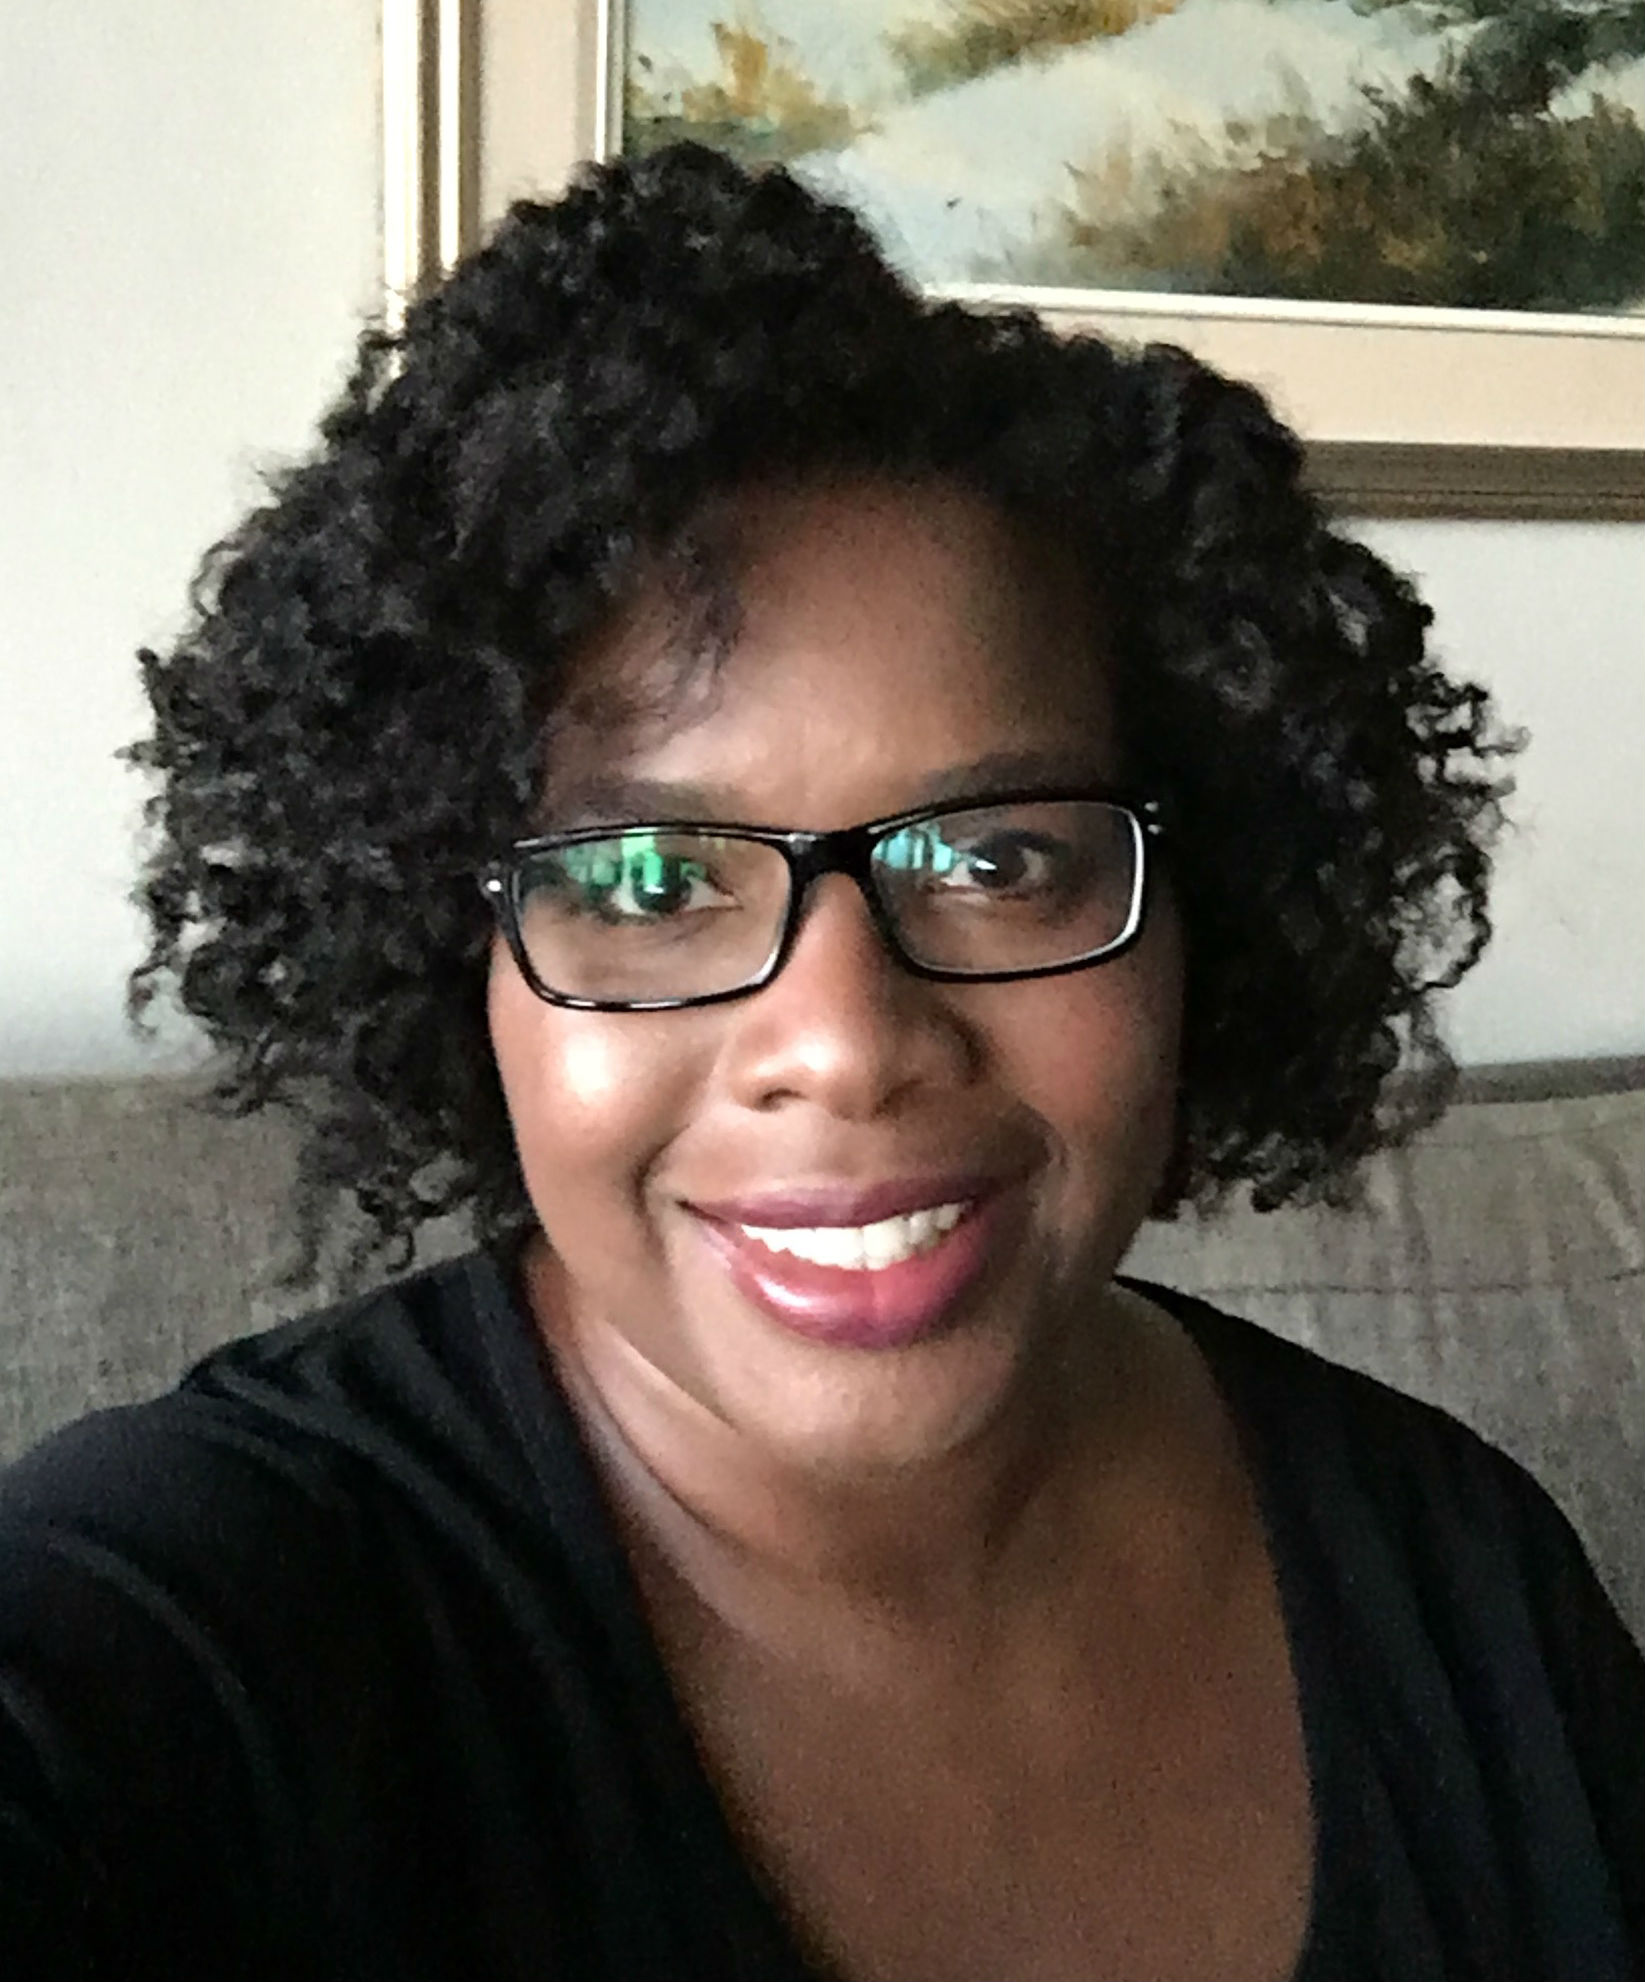
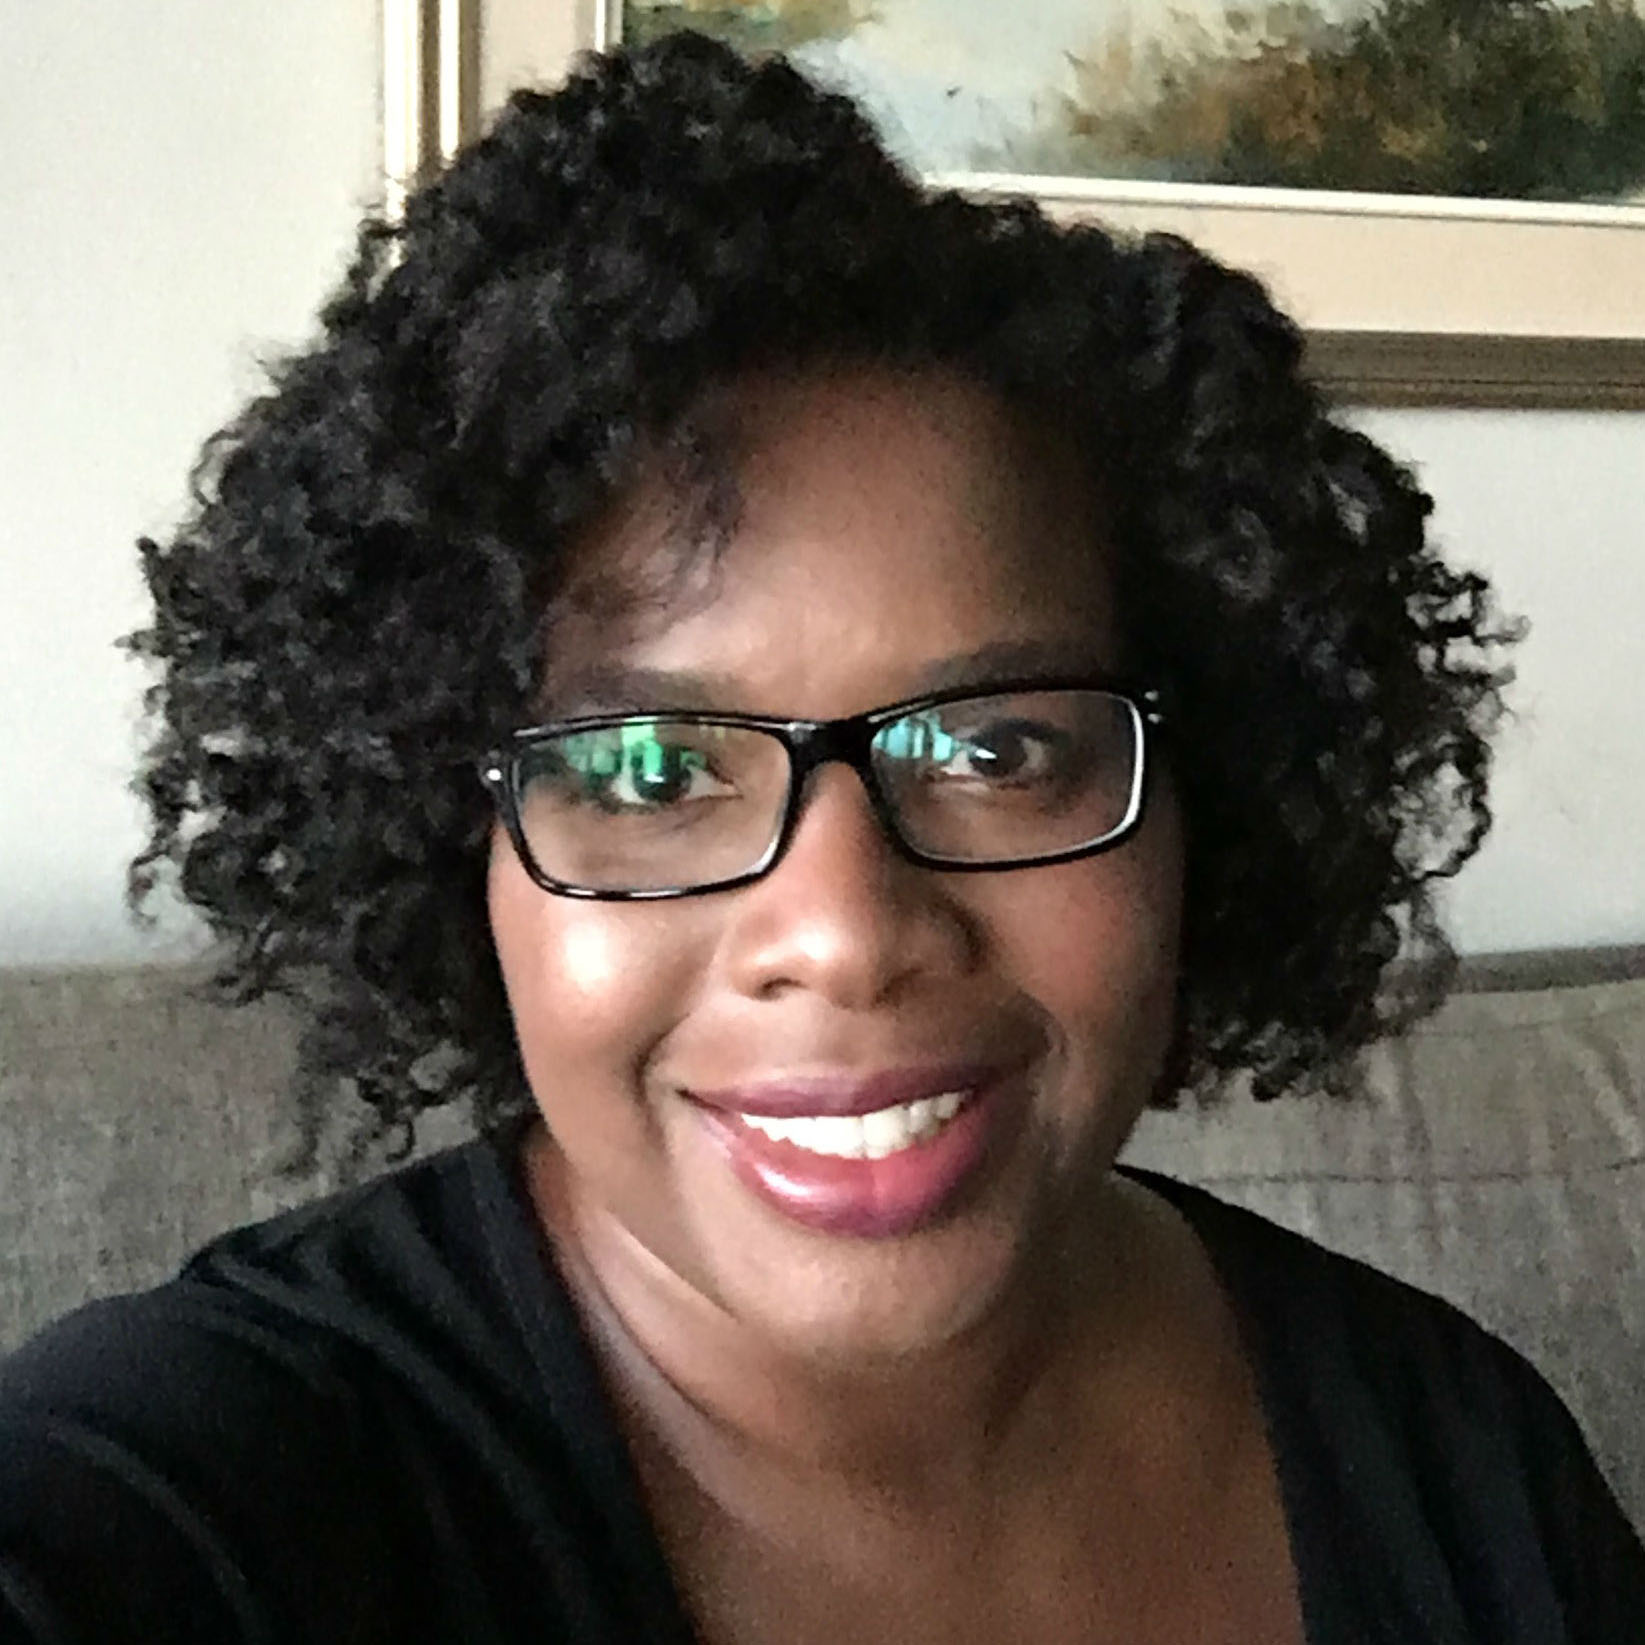
Add rebecca song (#56)
* add oval rebecca with no sm link

* update assets

diff --git a/src/apply-dev/index.html b/src/apply-dev/index.html
@@ -134,17 +134,22 @@
   </div>
 </section>
 <div class="libre-baskerville bg-near-white f5 blue center lh-2 pv5-ns ph3-m ph7-l items-center flex flex-column justify-center">
-  <img class="w4 pa2 mb3 br-100 ba bw1 b--green" src="../assets/marta-kule.jpg" alt="melanie burger, student">
+  <img class="w4 pa2 mb3 br-100 ba bw1 b--green" src="../assets/rebecca-song.jpg" alt="Rebcca Song, student">
+  <p class="f4 blue i tc center">Modern web development is a vast landscape that stretches as far as the eye can see (or the mind can imagine). While there are an infinite number of resources to "level up" your skills on the internet, it becomes overwhelming to try and dissect the material and figure out where to start. Bridge not only helped to filter and distill relevant information in a fun and focused way, but it also introduced me to what a truly inclusive and safe environment to learn and work looks like. I can't give enough praise to the Bridge crew for helping me move on with my career! Rock on!</p>
+  <p>- <a class="no-underline blue hover-pink" target="_blank" href="https://twitter.com/Resongg">Rebecca Song,</a> Bridge Cohort 4</p>
+</div>
+<div class="libre-baskerville bg-near-white f5 blue center lh-2 pv5-ns ph3-m ph7-l items-center flex flex-column justify-center">
+  <img class="w4 pa2 mb3 br-100 ba bw1 b--green" src="../assets/marta-kule.jpg" alt="Marta Kule, student">
   <p class="f4 blue i tc center">I had been learning front-end development on my own for a year and a half before Bridge, and while I'd been making steady but slow progress, Bridge was the ultimate accelerator of my career change. It was a feverish period of intensive technical learning and job hunt preparation that propelled me onto an interview-ready level, and within months from graduation I was working in the industry. It's called Bridge, but it was more like a Rocket, so prepare for take off!</p>
   <p>- <a class="no-underline blue hover-pink" target="_blank" href="https://twitter.com/MartaKule">Marta Kule,</a> Bridge Cohort 3</p>
 </div>
 <div class="libre-baskerville bg-white f5 blue center lh-2 pv5-ns ph3-m ph7-l items-center flex flex-column justify-center">
-  <img class="w4 pa2 mb3 br-100 ba bw1 b--green" src="../assets/simone-holder.jpg" alt="simone holder, student">
+  <img class="w4 pa2 mb3 br-100 ba bw1 b--green" src="../assets/simone-holder.jpg" alt="Simone Holder, student">
   <p class="f4 blue i tc center">Being selected as part of Bridge Cohort 2 was affirmation that I was on the right career path. I met like-minded women with whom I forged strong bonds. The entire Bridge team was incredibly supportive and encouraging throughout the program. They saw the potential in me that I was unable to see in myself. My participation in and completion of the program has been one of the greatest achievements of my web development career. I now have renewed confidence in my talent and skills as a web developer.</p>
   <p>- <a class="no-underline blue hover-pink" target="_blank" href="https://twitter.com/Four0neSix">Simone Holder,</a> Bridge Cohort 2</p>
 </div>
 <div class="libre-baskerville bg-near-white f5 blue center lh-2 pv5-ns ph3-m ph7-l items-center flex flex-column justify-center">
-  <img class="w4 pa2 mb3 br-100 ba bw1 b--green" src="../assets/melanie-burger.png" alt="melanie burger, student">
+  <img class="w4 pa2 mb3 br-100 ba bw1 b--green" src="../assets/melanie-burger.png" alt="Melanie Burger, student">
   <p class="f4 blue i tc center">"I loved every minute of Bridge (and miss it)! It was a huge treat to learn from such knowledgeable, patient and enthusiastic industry pros. Thanks to the Bridge program organizers for helping to level us 13 women up in tech!"</p>
   <p>- <a class="no-underline blue hover-pink" target="_blank" href="https://twitter.com/melaniebrgr">Melanie Burger,</a> Bridge Cohort 1</p>
 </div>
